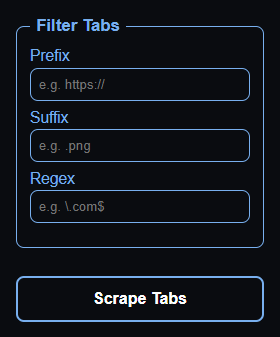
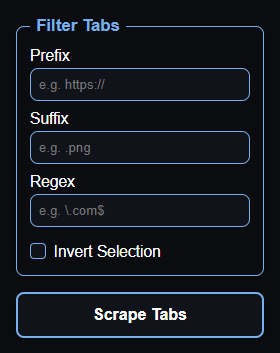
Release 1.0.1

diff --git a/README.md b/README.md
@@ -1,60 +1,86 @@
-# TabScraper
+# [Tab Scraper](https://chromewebstore.google.com/detail/tab-scraper/ahdhhonppgdiglmppkcjckijelfdalho)
 
-<!--![TabScraper Screenshot](screenshots/screenshot.png) -->
+*Scrape and export URLs from all your open Chrome tabs in one click.*
 
-## Description
-**TabScraper** is a lightweight Chrome extension that lets you export URLs of all your currently open browser tabs into a downloadable text file. You can filter the tabs by prefix, suffix, or regex to customize which URLs get saved.
+
+## Overview
+
+**Tab Scraper** is a lightweight, privacy-first Chrome extension that helps you quickly collect the URLs of all your open tabs and save them as a text file. Ideal for researchers, content creators, or anyone who needs to archive or share multiple links at once.
+
 
 ## Features
 
-- Export all open tab URLs with one click.
-- Filter tabs by URL prefix, suffix, or regular expression.
-- Save your filter preferences locally for convenience.
-- Privacy-first: all data processing happens locally in your browser.
-- Dark mode and modern UI with rounded corners.
+* **One‑Click Export**: Gather all open tab URLs instantly.
+* **Advanced Filtering**: Include or exclude tabs by URL *prefix*, *suffix*, or custom *regular expressions*.
+* **Invert Selection**: Flip filters to exclude matching patterns.
+* **Persistent Settings**: Filter preferences sync across your Chrome profile.
+* **Modern UI**: Dark mode support, responsive layout, and polished styling.
+* **Privacy‑First**: All data stays local—no external servers or tracking.
+
 
 ## Installation
 
-### From source (for development)
+### From Chrome Web Store
+
+1. Navigate to the [Tab Scraper page on the Chrome Web Store](https://chromewebstore.google.com/detail/tab-scraper/ahdhhonppgdiglmppkcjckijelfdalho).
+2. Click **Add to Chrome**, then **Add extension**.
+3. Pin the extension to your toolbar by clicking the puzzle-piece icon and selecting **Tab Scraper**.
+
+### From Source (Development)
 
 1. Clone this repository:
 
    ```bash
-   git clone https://github.com/yourusername/TabScraper.git
+   git clone https://github.com/MCmoderSD/TabScraper.git
    cd TabScraper
-
+   ```
 2. Install dependencies:
 
    ```bash
    npm install
    ```
-
-3. Build the TypeScript files:
+3. Build the extension:
 
    ```bash
    npm run build
    ```
+4. Load into Chrome:
 
-4. Load the extension in Chrome:
-- Open `chrome://extensions/`
-- Enable Developer mode (top right)
-- Click Load unpacked and select the `dist` folder inside your project
+   * Open `chrome://extensions/` in your browser.
+   * Enable **Developer mode** (toggle in top-right).
+   * Click **Load unpacked**, then select the `dist` folder.
+
 
 ## Usage
-1. Click the TabScraper icon in the Chrome toolbar.
-2. Set your filters (prefix, suffix, regex) as desired.
-3. Click Scrape to generate a text file (`tabs.txt`) with matching tab URLs.
-4. The file will be downloaded to your default downloads folder.
 
----
+1. Click the **Tab Scraper** icon in the Chrome toolbar.
+2. (Optional) Set any combination of:
+
+   * **Prefix**: Only include URLs starting with this string.
+   * **Suffix**: Only include URLs ending with this string.
+   * **Regex**: Match URLs against a custom pattern.
+   * **Invert Selection**: Exclude all URLs matching the above.
+3. Click **Scrape**.
+4. Save the generated `.txt` file from the Chrome download dialog.
+
+**Use cases:**
+
+* Archive research sources from multiple tabs.
+* Share product pages or articles with team members.
+* Keep a record of your browsing session for later review.
+
 
 ## Permissions
-- **tabs:** To read URLs of open tabs.
-- **downloads:** To save the scraped URLs as a text file.
-- **storage:** To save your filter settings locally.
 
-## Privacy
-TabScraper does not collect or transmit any data. All operations are performed locally in your browser.
+* `tabs`: Read URLs from open tabs.
+* `downloads`: Generate and save the output file.
+* `storage`: Persist your filter settings.
+
+
+## Privacy & Security
+
+Tab Scraper operates entirely within your browser. No URLs or data are sent to any external server. You control what gets saved and shared.
+
 
 ## Contributing
 Contributions and suggestions are welcome! Feel free to open issues or pull requests.
